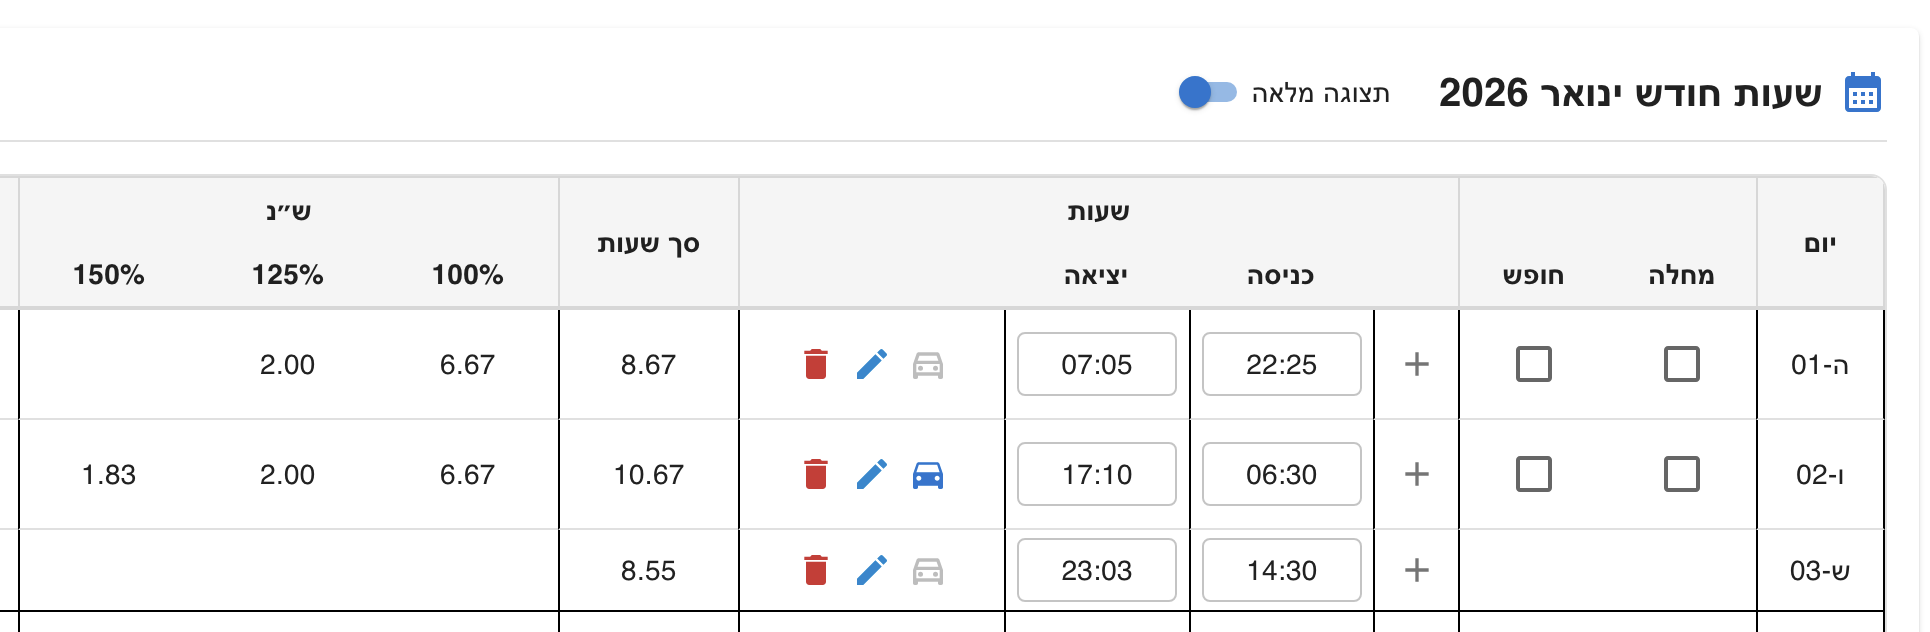
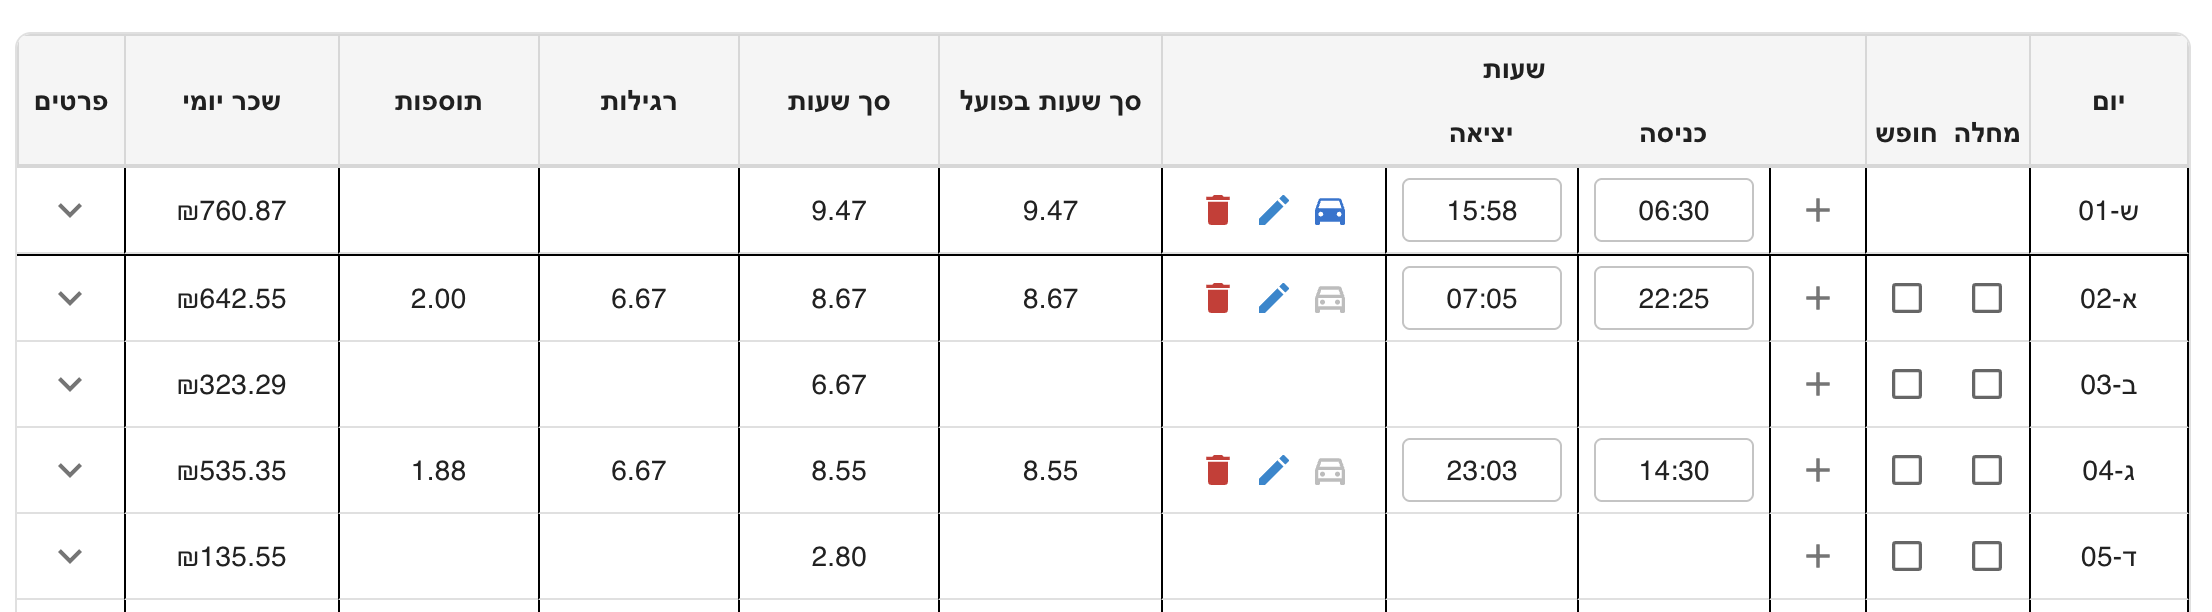
docs(readme): update responsive work table screenshots

diff --git a/README.md b/README.md
@@ -442,19 +442,19 @@ End time is next day; system asks to confirm crossing day.
 
 ### Breakdown Summaries
 
-#### Daily Breakdown - Expanded View
+#### Daily Breakdown - Desktop View
 
 Detailed breakdown showing all calculation components for a single day.
 
-|                     Breakdown Summary 1                      |                     Breakdown Summary 2                      |
-| :----------------------------------------------------------: | :----------------------------------------------------------: |
-| ![Breakdown Day 1](./.github/assets/breakdown-summary-1.png) | ![Breakdown Day 2](./.github/assets/breakdown-summary-2.png) |
+|                              Collapsed Details                              |                              Expanded Details                              |
+| :-------------------------------------------------------------------------: | :------------------------------------------------------------------------: |
+| ![Desktop breakdown with collapsed details](./.github/assets/breakdown-summary-1.png) | ![Desktop breakdown with expanded details](./.github/assets/breakdown-summary-2.png) |
 
-#### Daily Breakdown - Compact View
+#### Daily Breakdown - Mobile View
 
-Condensed view for quick daily salary overview.
-
-![Breakdown Compact Summary](./.github/assets/breakdown-compact-summary.png)
+|                             Collapsed Details                             |                             Expanded Details                             |
+| :-----------------------------------------------------------------------: | :----------------------------------------------------------------------: |
+| ![Mobile breakdown with collapsed details](./.github/assets/breakdown-mobile-1.png) | ![Mobile breakdown with expanded details](./.github/assets/breakdown-mobile-2.png) |
 
 #### Monthly Summary
 

diff --git a/README_HE.md b/README_HE.md
@@ -360,12 +360,17 @@ Shiftly כוללת שתי תצוגות חישוב עיקריות:
   ![Cross Day Warning](./.github/assets/cross-day-warning.png)
   ![Cross Day](./.github/assets/shift-save.png)
 
-**סיכום פירוק יומי - מורחב**
-![Breakdown Day 1](./.github/assets/breakdown-summary-1.png)
-![Breakdown Day 2](./.github/assets/breakdown-summary-2.png)
+**סיכום פירוט יומי - תצוגת מחשב**
 
-**סיכום פירוק יומי - קומפקטי**
-![Breakdown Compact](./.github/assets/breakdown-compact-summary.png)
+|                                 פרטים סגורים                                  |                                 פרטים מורחבים                                  |
+| :----------------------------------------------------------------------------: | :-----------------------------------------------------------------------------: |
+| ![פירוט יומי במחשב עם פרטים סגורים](./.github/assets/breakdown-summary-1.png) | ![פירוט יומי במחשב עם פרטים מורחבים](./.github/assets/breakdown-summary-2.png) |
+
+**סיכום פירוט יומי - תצוגת מובייל**
+
+|                                פרטים סגורים                                 |                                פרטים מורחבים                                 |
+| :---------------------------------------------------------------------------: | :----------------------------------------------------------------------------: |
+| ![פירוט יומי במובייל עם פרטים סגורים](./.github/assets/breakdown-mobile-1.png) | ![פירוט יומי במובייל עם פרטים מורחבים](./.github/assets/breakdown-mobile-2.png) |
 
 **סיכום חודשי**
 ![Monthly Summary](./.github/assets/monthly-summary.png)
